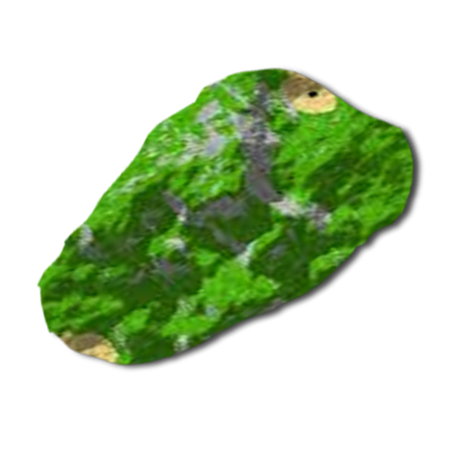
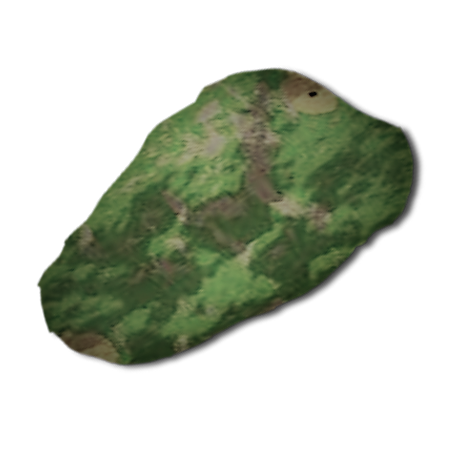
images and highlight done

Changed region(s): [[0.0622, 0.1556, 0.9333, 0.8089]]

diff --git a/Exodus/src/exodus/ExodusUI.java b/Exodus/src/exodus/ExodusUI.java
@@ -65,7 +65,7 @@ public class ExodusUI {
         JLabel localMenu = createLabel(0, 600, 400, 480, Color.GRAY, null, false);
         JLabel worldMenu = createLabel(1520, 600, 400, 480, Color.GRAY, null, false);
         List<JLabel> islands = new ArrayList<JLabel>();
-        JLabel island1 = createLabel(175, 150, 450, 450, readImage("island1.png", 450, 450), null, true);
+        JLabel island1 = createLabel(175, 150, 450, 450, readImage("altIsland1.png", 450, 450), null, true);
         JLabel island2 = createLabel(1100, 75, 450, 450, readImage("island2.png", 450, 450), null, true);
         JLabel island3 = createLabel(800, 500, 450, 450, readImage("island3.png", 450, 450), null, true);
         islands.add(island1);
@@ -81,7 +81,15 @@ public class ExodusUI {
             {
                 @Override
                 public void mouseClicked(MouseEvent e) {
+                    for(int i = 0; i < 3; i++)
+                    {
+                        islands.get(i).setIcon(readImage("island" + (i + 1) + ".png", 450, 450));
+                    }
                     islandSelected = index;
+                    if(!budgetOpen)
+                    {
+                        island.setIcon(readImage("altIsland" + (index + 1) + ".png", 450, 450));
+                    }
                     HandleSound("click.wav");
                 }
 
@@ -97,12 +105,20 @@ public class ExodusUI {
 
                 @Override
                 public void mouseEntered(MouseEvent e) {
-                    HandleSound("hover.wav");
+                    
+                    if(!budgetOpen)
+                    {
+                        HandleSound("hover.wav");
+                        island.setIcon(readImage("altIsland" + (index + 1) + ".png", 450, 450));
+                    }
                 }
 
                 @Override
                 public void mouseExited(MouseEvent e) {
-                    
+                    if(index != islandSelected)
+                    {
+                        island.setIcon(readImage("island" + (index + 1) + ".png", 450, 450));
+                    }
                 }
             };
             island.addMouseListener(ml);
@@ -218,6 +234,7 @@ public class ExodusUI {
         world.add(island2);
         world.add(island3);
         world.add(background);
+        
         jf.add(hq);
         jf.add(worldBackground);
         jf.setSize(1920, 1080);
